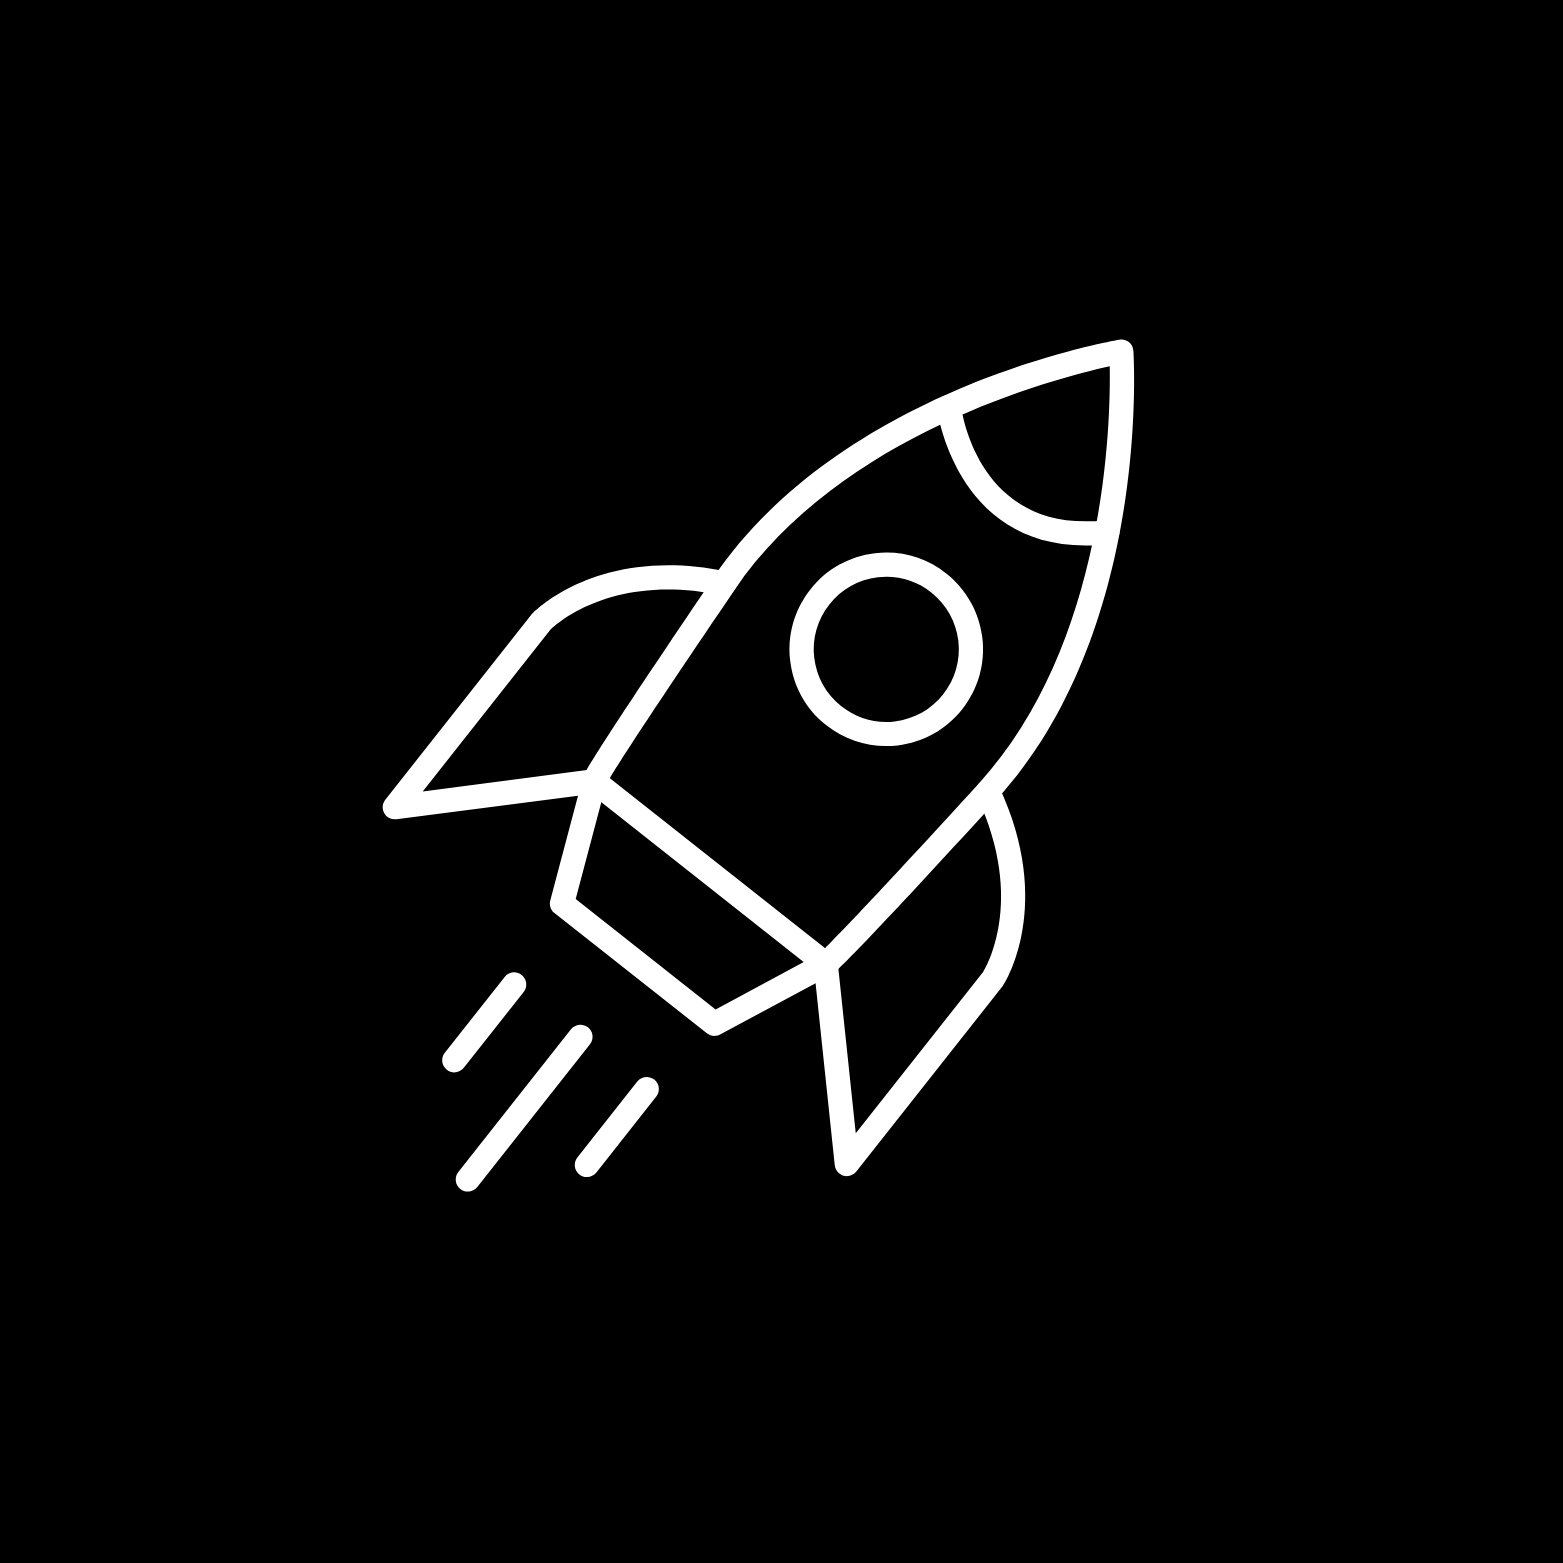
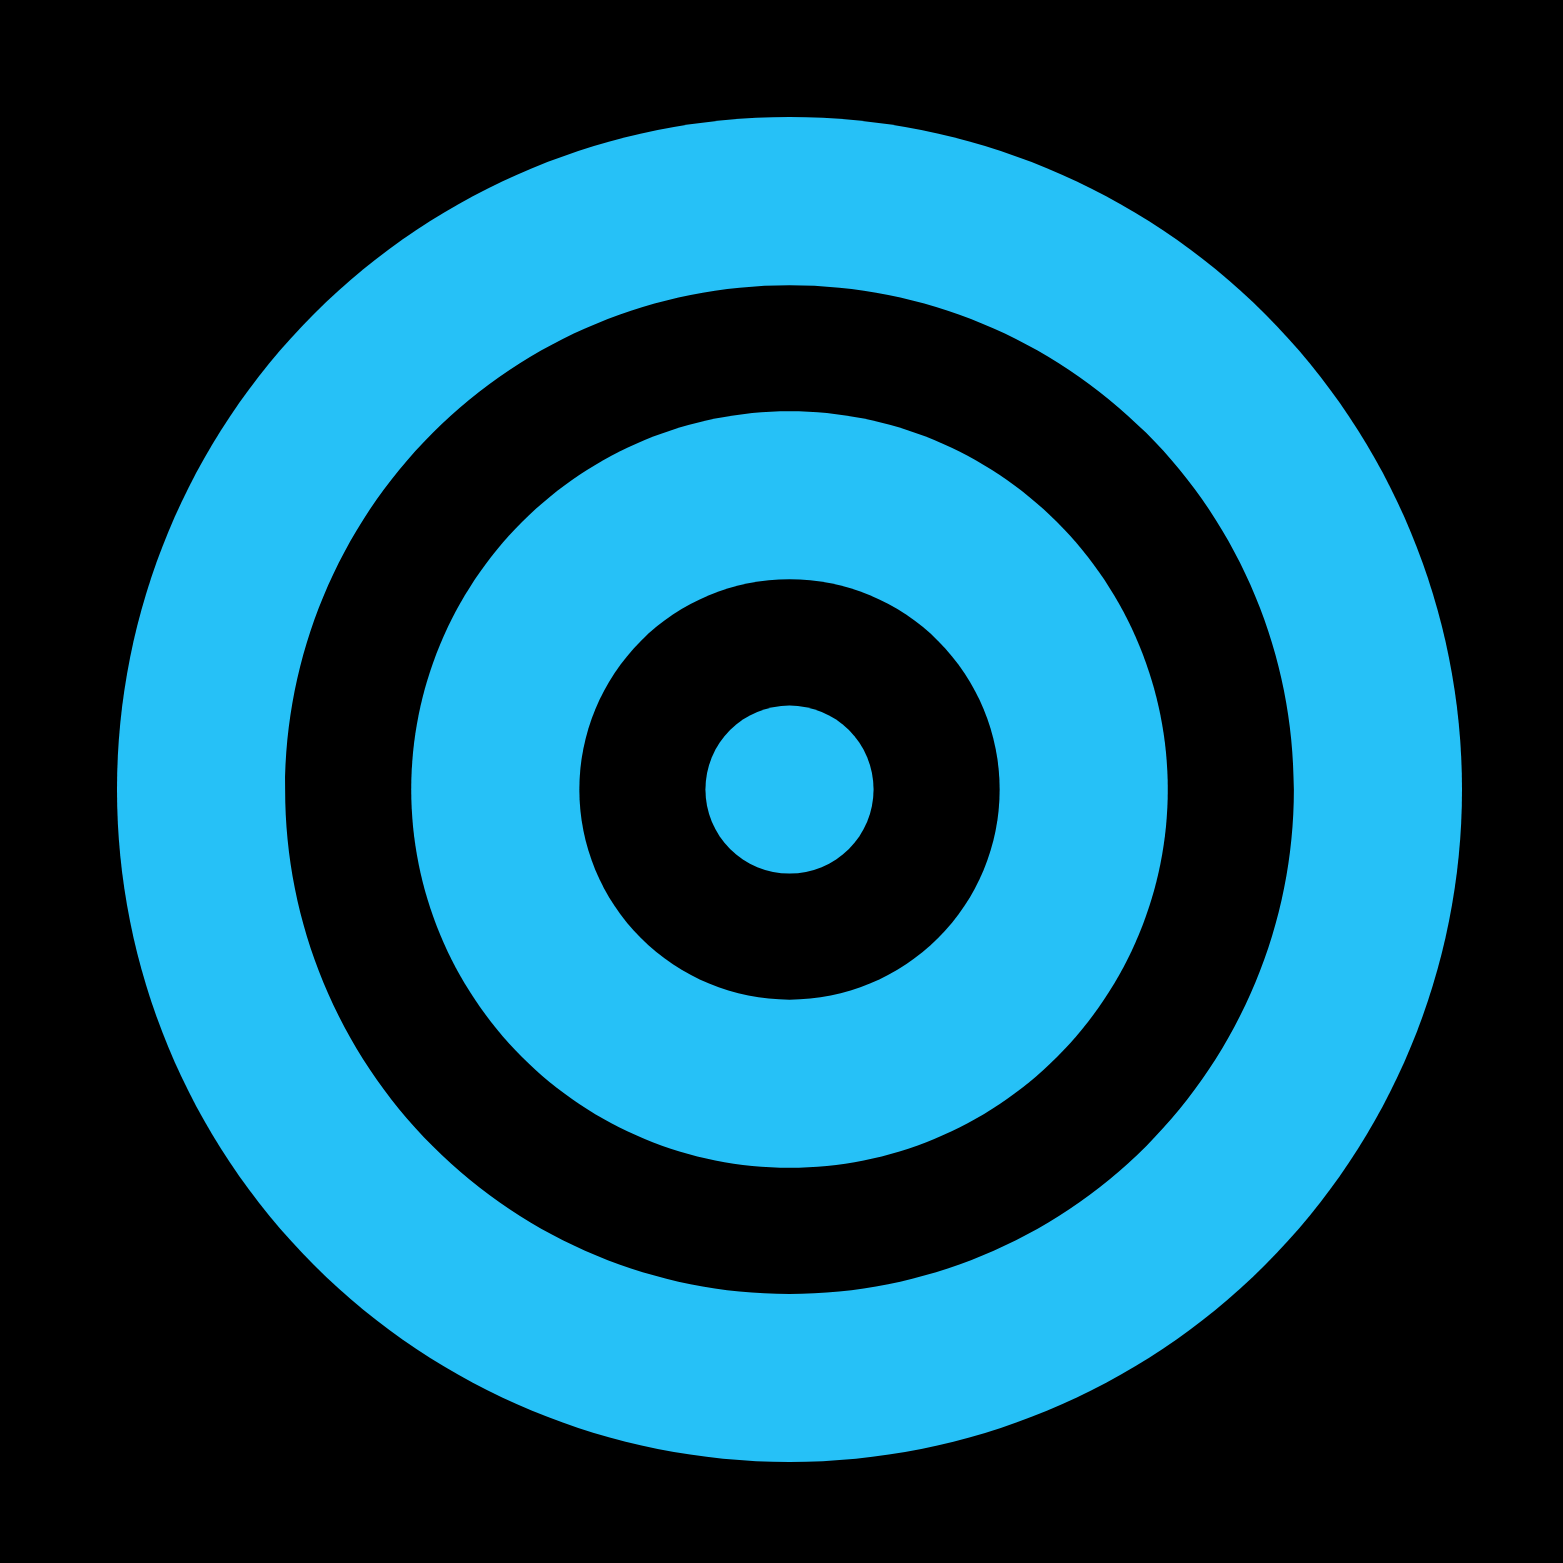
profile page fix

diff --git a/components/LoadingScreen.tsx b/components/LoadingScreen.tsx
@@ -2,8 +2,8 @@ import { View, ActivityIndicator } from "react-native"
 
 export const LoadingScreen = () => {
   return (
-    <View className="flex items-center justify-center w-full h-full">
-      <ActivityIndicator />
+    <View className="flex items-center justify-center w-full h-full bg-black">
+      <ActivityIndicator color="#00c2ff" />
     </View>
   )
 }

diff --git a/app/(tabs)/profile/_layout.tsx b/app/(tabs)/profile/_layout.tsx
@@ -1,8 +1,12 @@
 import { Stack } from 'expo-router';
 
 export default function ProfileLayout() {
-
   return (
-    <Stack />
-  )  
+    <Stack
+      screenOptions={{
+        headerShown: false,
+        contentStyle: { backgroundColor: '#000' },
+      }}
+    />
+  );
 }
